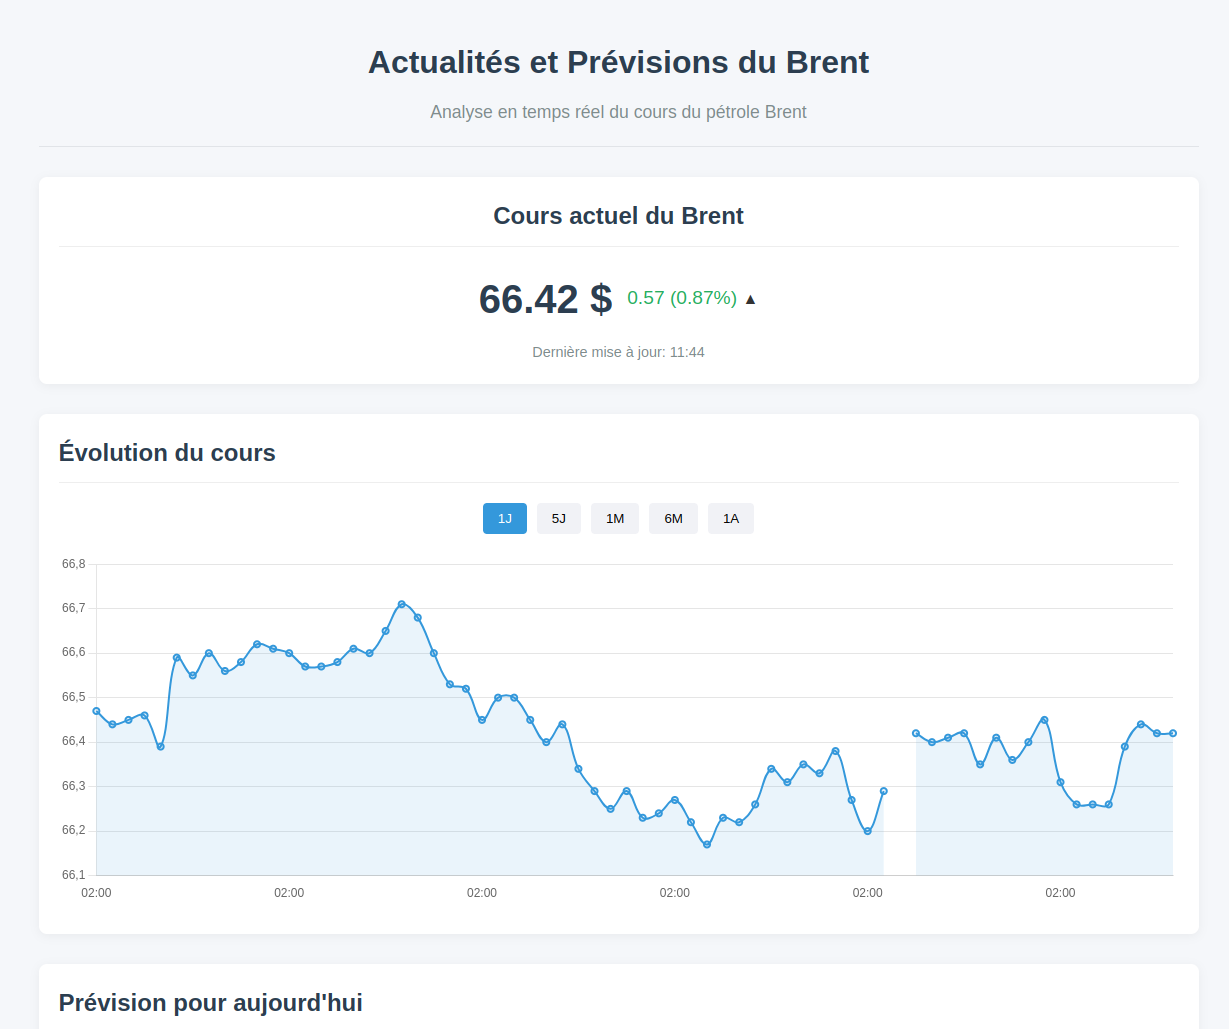
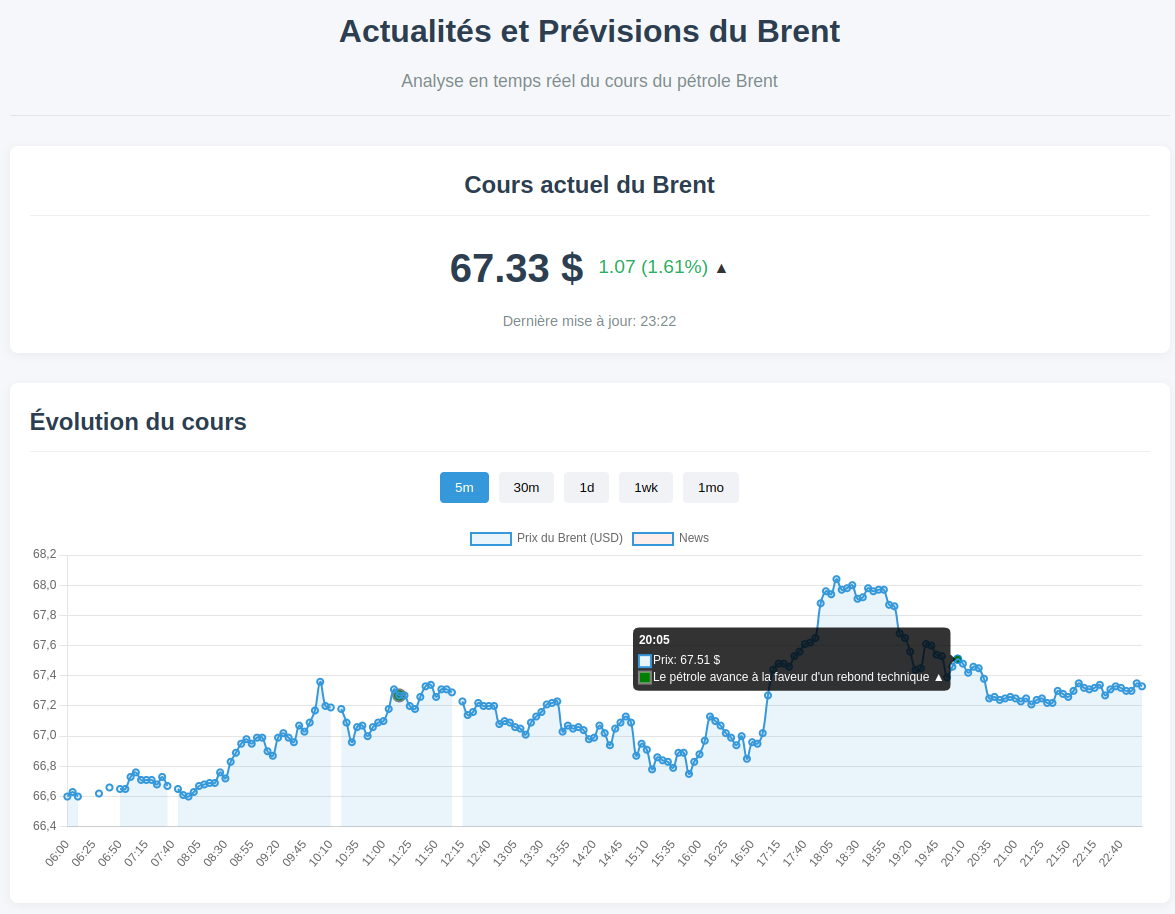
Update news markers styling and screenshot

diff --git a/public/src/app.browser.js b/public/src/app.browser.js
@@ -947,10 +947,12 @@ async function updateChart() {
                     label: function(context) {
                         const datasetIndex = context.datasetIndex;
                         const pointIndex = context.dataIndex;
-
                         // Vérifier s'il s'agit du dataset des actualités et si le point a une actualité associée
                         if (datasetIndex === 1 && newsPoints[pointIndex]) {
-                            return newsPoints[pointIndex].title || 'Actualité sans titre';
+                            const impactIcon = newsPoints[pointIndex].sentiment === 'positive' ? '▲' :
+                                newsPoints[pointIndex].sentiment === 'negative' ? '▼' : '';
+
+                            return newsPoints[pointIndex].title  + ' ' + impactIcon || 'Actualité';
                         }
 
                         // Comportement par défaut pour les autres points
